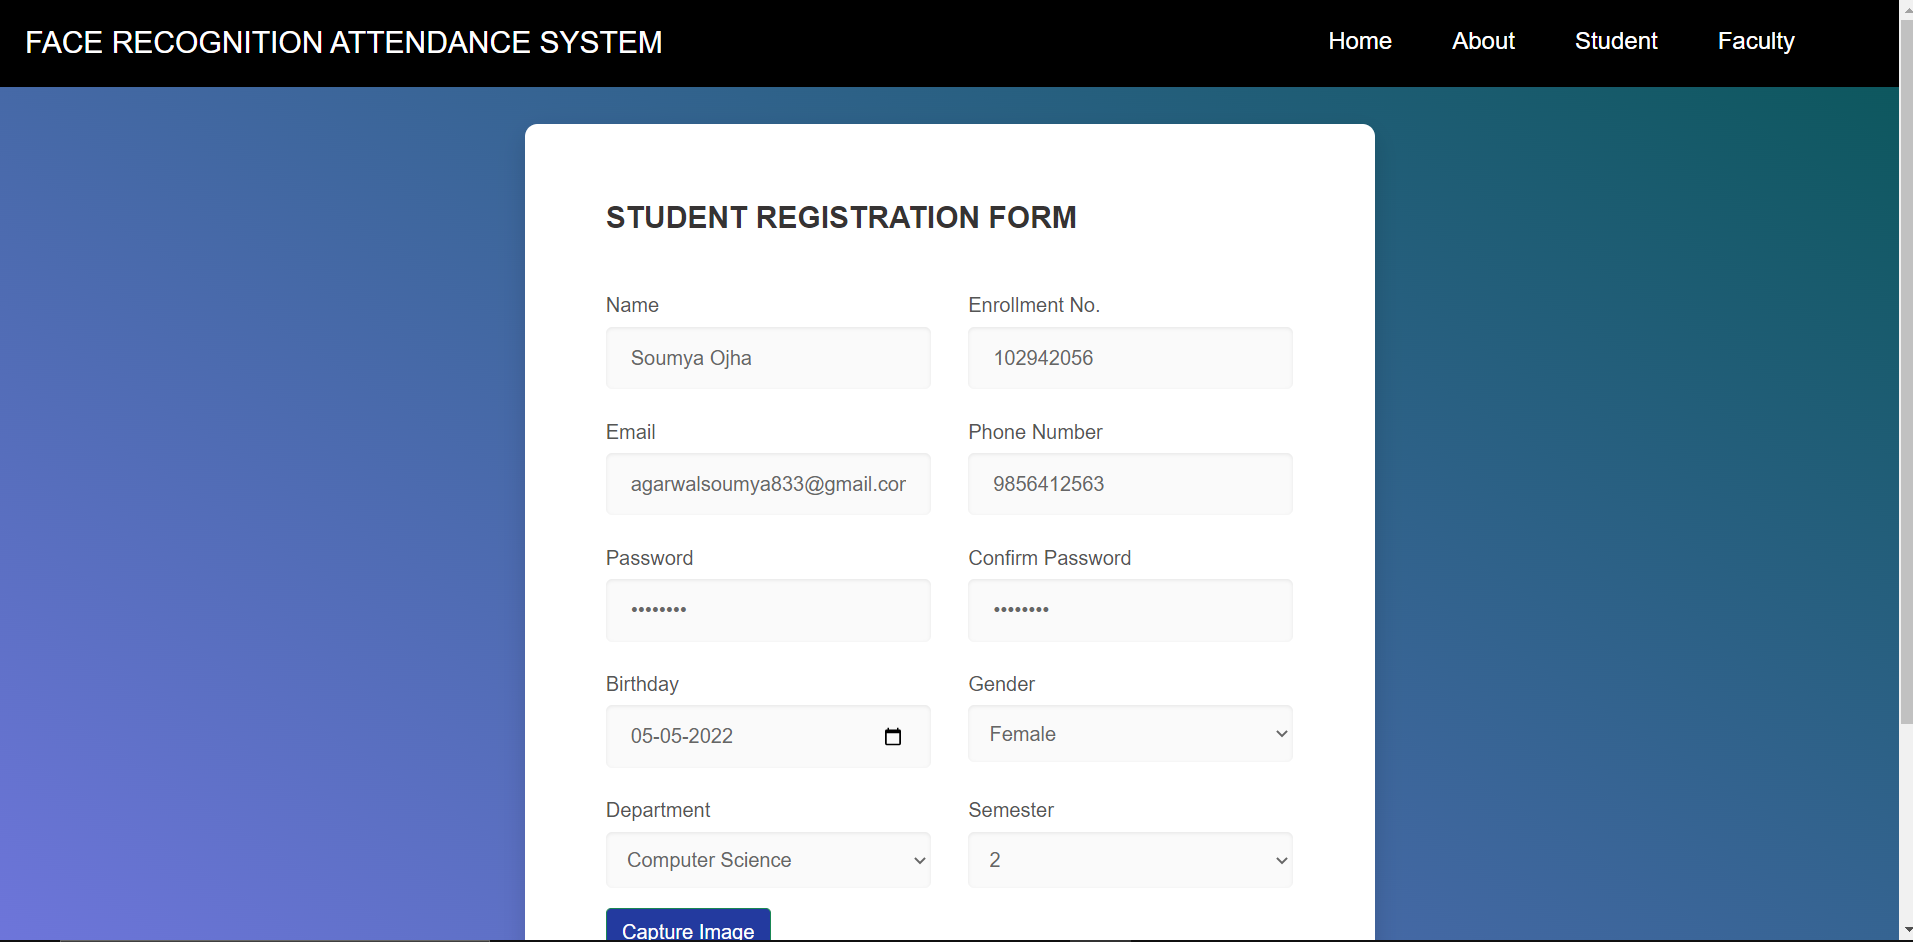
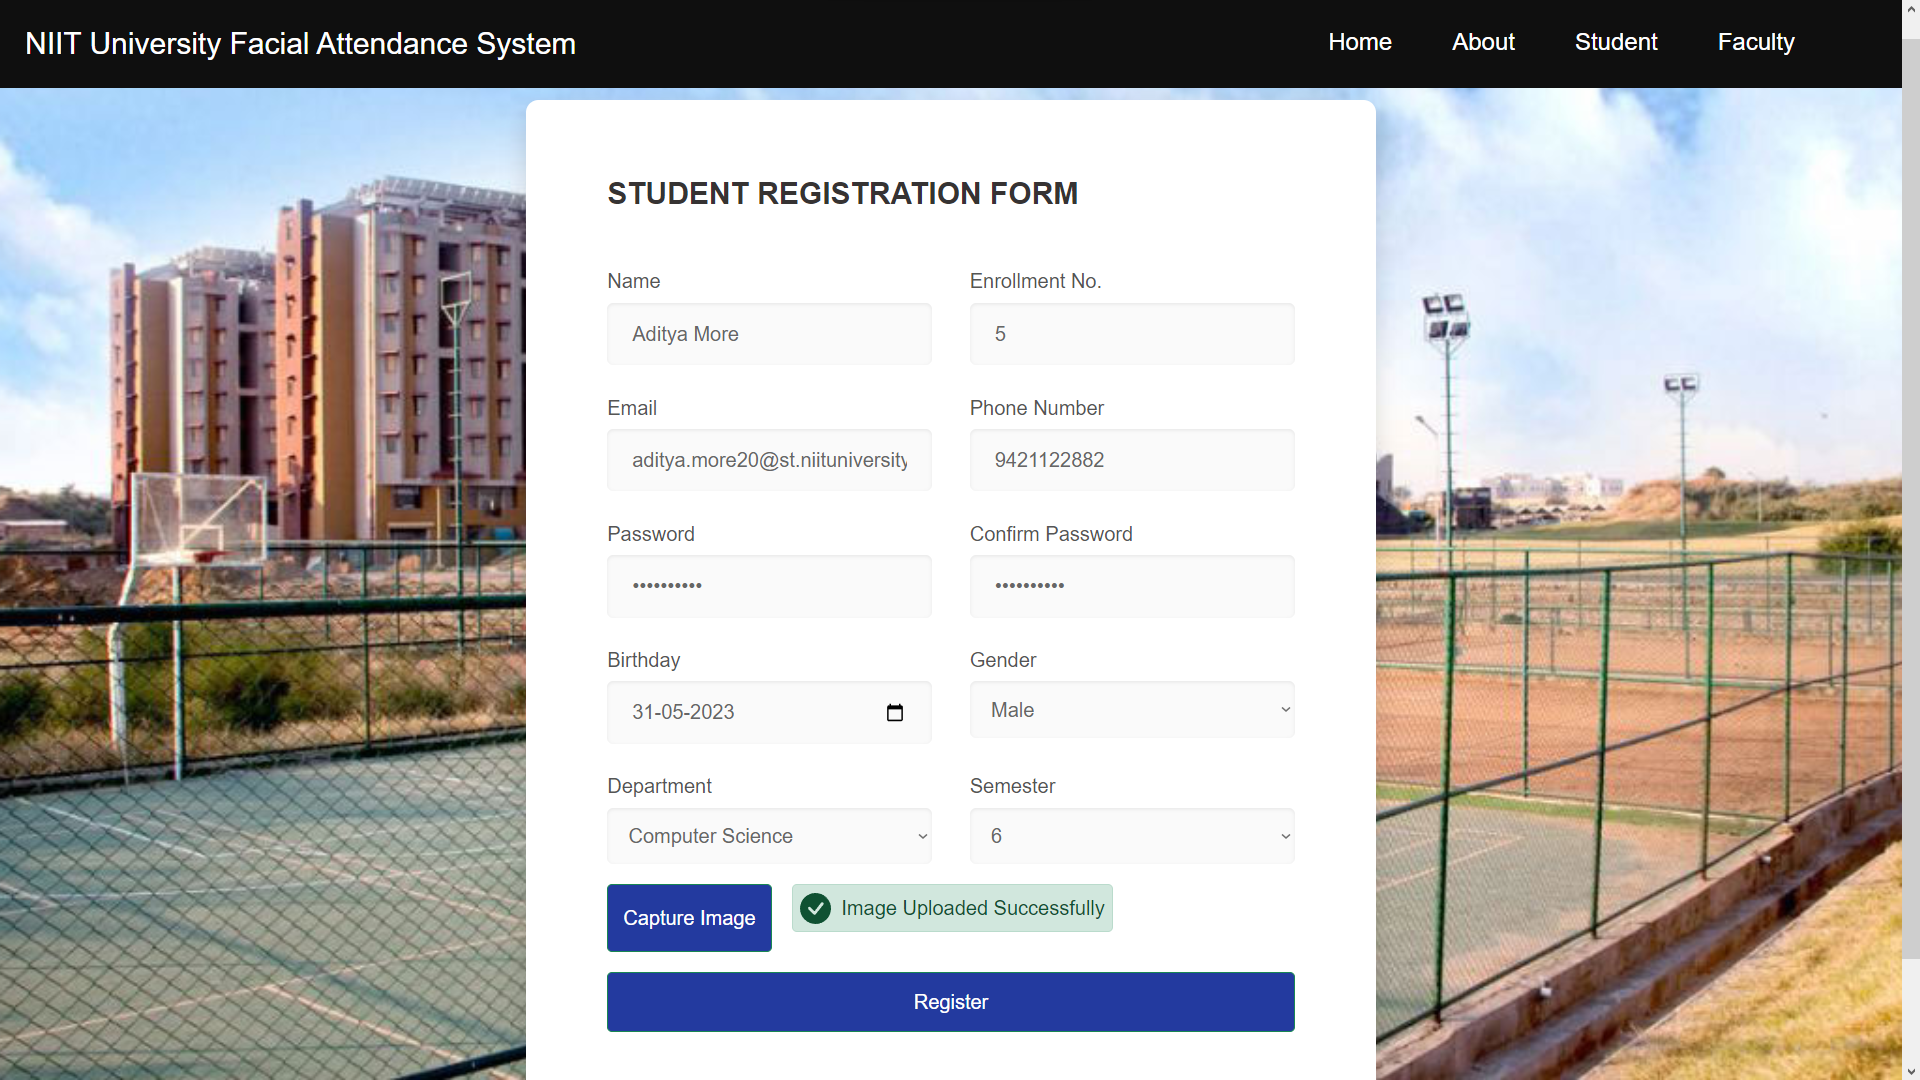
changed images

diff --git a/client/src/App.css b/client/src/App.css
@@ -528,7 +528,12 @@ body {
 .main-Class {
   padding-top: 100px;
   padding-bottom: 70px;
-  background: radial-gradient(#0905f5, #095659);
+  /*background: radial-gradient(#f5051d, #095659);*/
+  background-image: url("D:\SemVI\capstone-attendence\Face-Recognition-Attendance-System\Images\campus1.jpg");
+  background-repeat: no-repeat;
+  background-position: center center;
+  background-attachment: fixed;
+  background-size: cover;
   min-height: 100vh;
 }
 

diff --git a/server/index.js b/server/index.js
@@ -5,7 +5,7 @@ const dotenv = require('dotenv');
 const cookieParser = require('cookie-parser');
 const cors = require('cors');
 const socket = require('socket.io');
-const port = process.env.PORT || 3000;
+const port = process.env.PORT || 5000;
 
 app.use(cookieParser());
 
